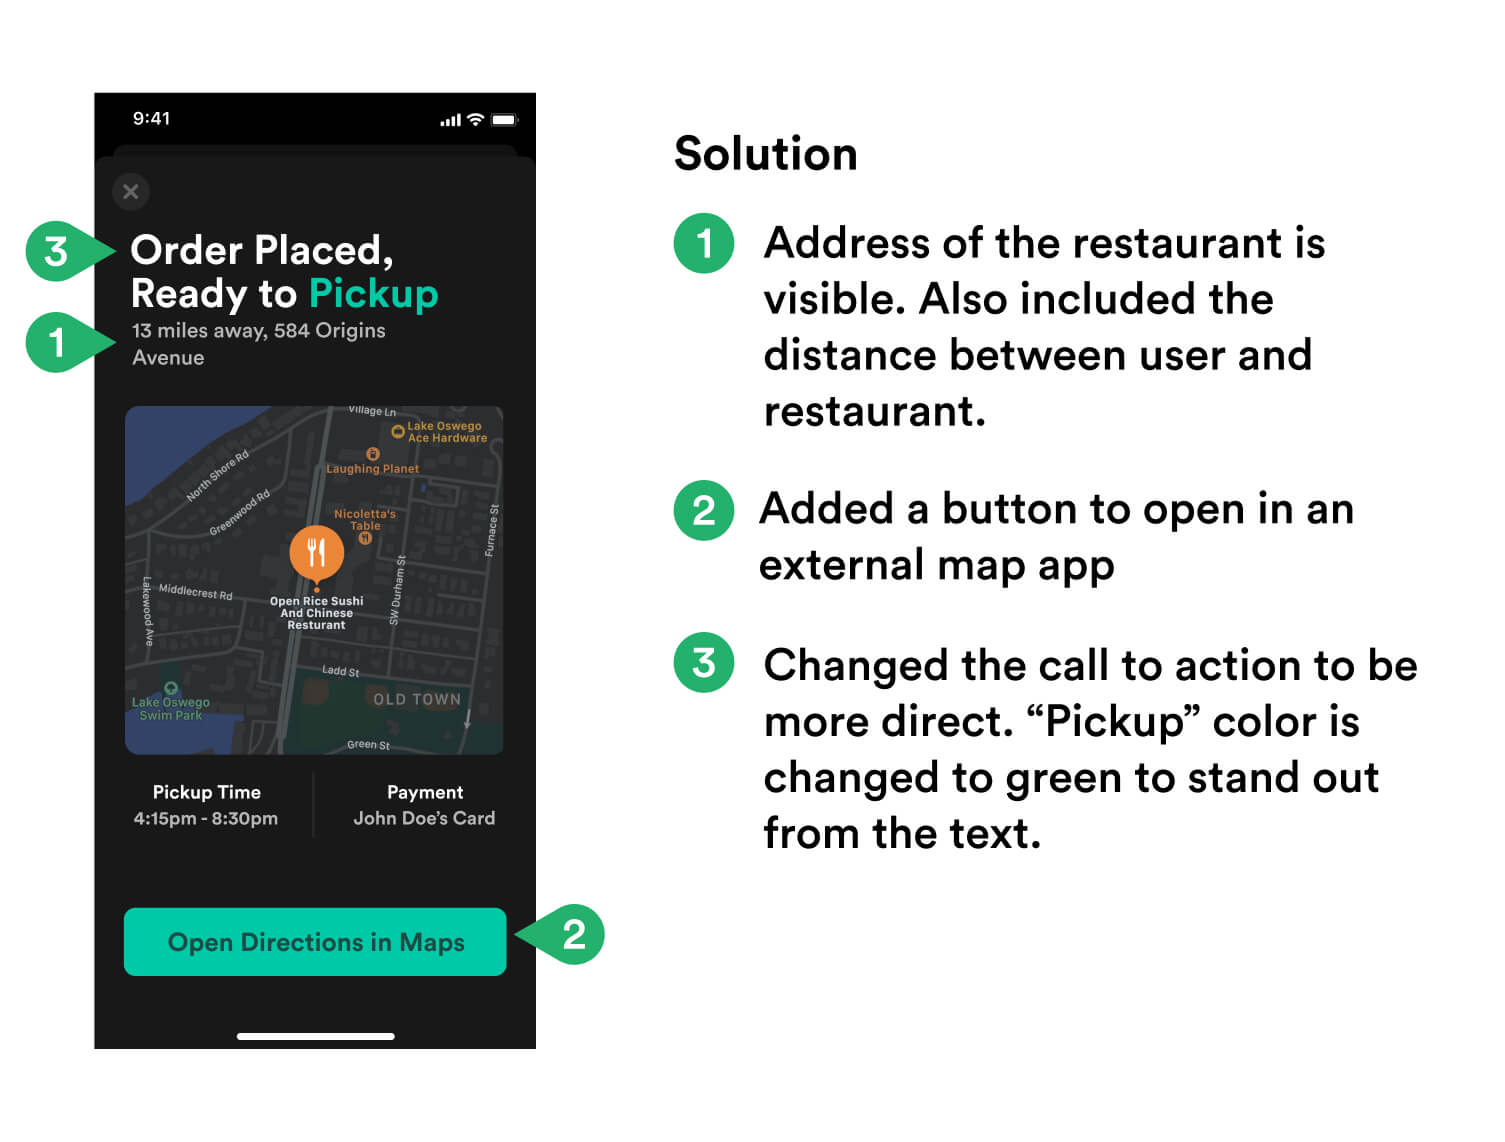
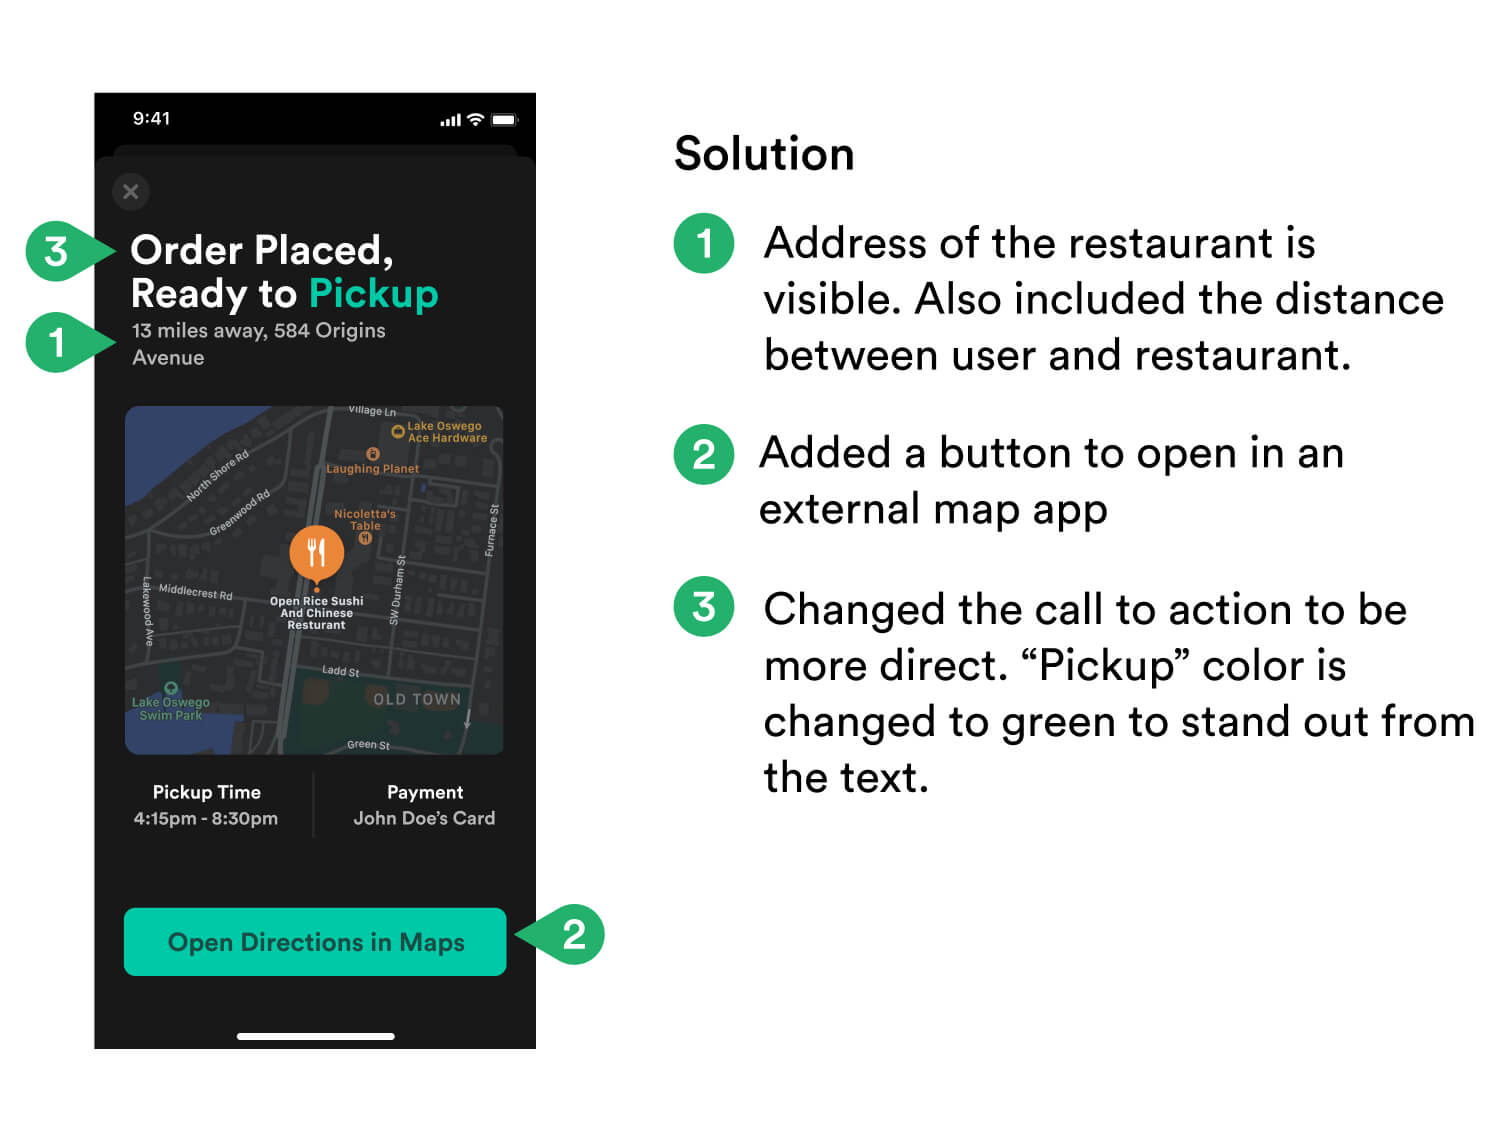
solu bold font

Changed region(s): [[0.4372, 0.1839, 0.9993, 0.7662], [0.4372, 0.1226, 0.5934, 0.1532]]

diff --git a/src/pages/provisionscase.js b/src/pages/provisionscase.js
@@ -104,7 +104,7 @@ const CaseStudy = () => (
 
           <div className={caseStyle.flexcontaineroverviewfirst}>
             <h1 className={caseStyle.flextitleoverview}>Conducting a <br></br>Survey</h1>
-            <p className={caseStyle.overviewdescription}>I chose to run a survey through Google forms to find out impressions about the original design. I also asked the participant's age to find out what demographic I need to design for. Due to the time constraint, I surveyed 31 participants through Slack and LinkedIn.</p>
+            <p className={caseStyle.overviewdescription}>I chose to run a survey through Google Forms to find out impressions about the original design. I also asked the participants' age to find out which demographic I need to design for. Due to the time constraint, I surveyed 31 participants through Slack and LinkedIn.</p>
           </div>
 
           <div className={caseStyle.flexSideImageContainer}>
@@ -117,7 +117,7 @@ const CaseStudy = () => (
 
           <div className={caseStyle.flexcontaineroverviewfirst}>
             <h1 className={caseStyle.flextitleoverview}>Who is the User?</h1>
-            <p className={caseStyle.overviewdescription}>From the survey, users are mid 20s to early 30s. We could infer that the users are Millennials. The design must appeal to that demographic. Millennials are used to getting necessary information instantly. I want to make sure the app is easy to use and requires little thinking from the user.</p>
+            <p className={caseStyle.overviewdescription}>From the survey, participants were mid 20s to early 30s. We could infer that the users are Millennials, and the design must appeal to that demographic. Millennials are used to getting necessary information instantly. I want to make sure the app is easy to use and requires little thinking from the user.</p>
           </div>
 
           {/* Center Big Image */}
